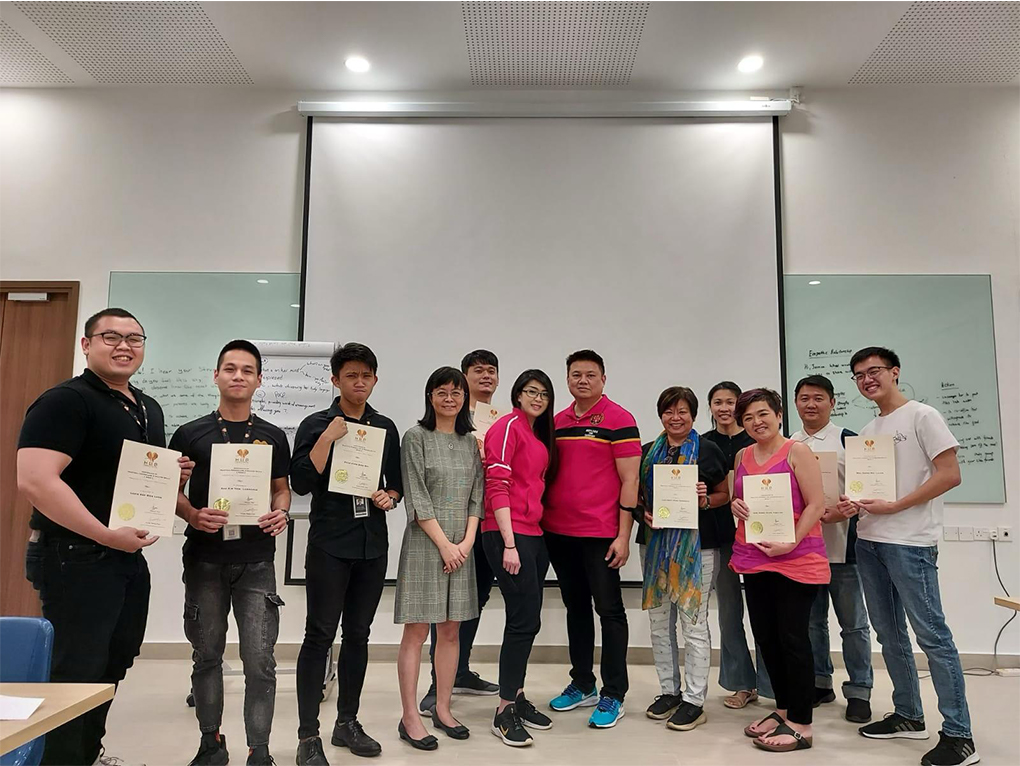
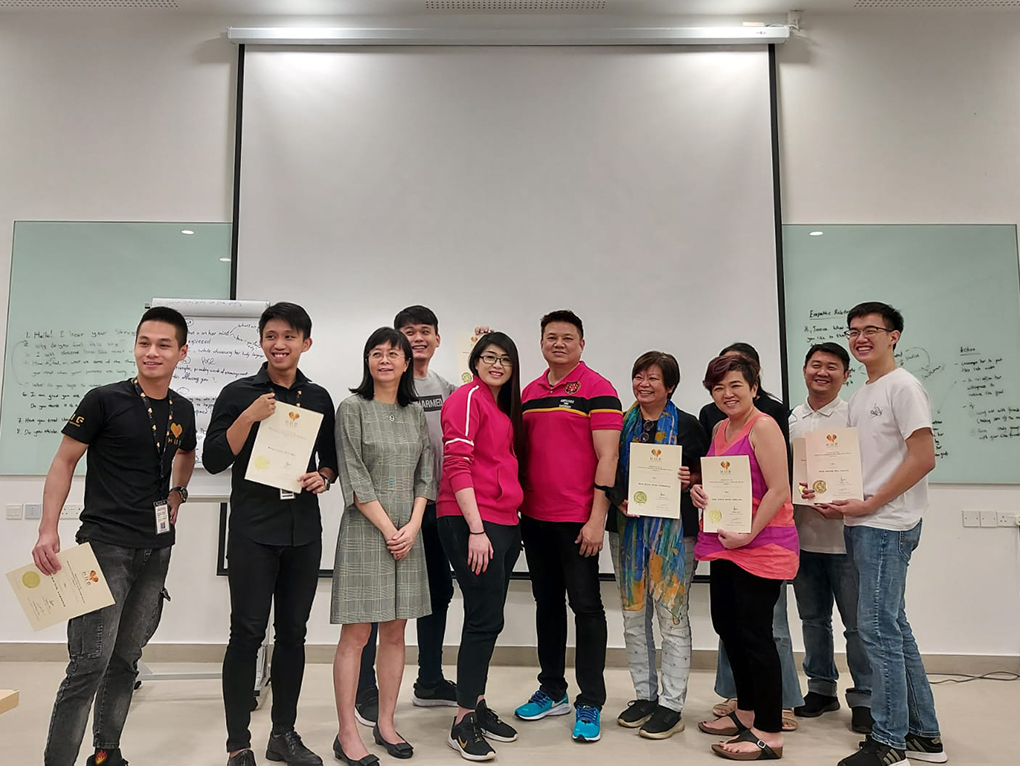
Counsel course -content

diff --git a/events/HUGCounsellingCourse-2020.html b/events/HUGCounsellingCourse-2020.html
@@ -102,6 +102,9 @@
             <img src="../assets/img/portfolio/counselCourse/counselCourse_1.jpg" class="img-fluid" alt="">
             <img src="../assets/img/portfolio/counselCourse/counselCourse_2.jpg" class="img-fluid" alt="">
             <img src="../assets/img/portfolio/counselCourse/counselCourse_3.jpg" class="img-fluid" alt="">
+            <img src="../assets/img/portfolio/counselCourse/counselCourse_4.jpg" class="img-fluid" alt="">
+            <img src="../assets/img/portfolio/counselCourse/counselCourse_5.jpg" class="img-fluid" alt="">
+
           </div>
 
           <div class="portfolio-info">
@@ -117,7 +120,7 @@
         <div class="portfolio-description">
           <h2>HUG's Counselling Course 2020</h2>
           <p>
-            Autem ipsum nam porro corporis rerum. Quis eos dolorem eos itaque inventore commodi labore quia quia. Exercitationem repudiandae officiis neque suscipit non officia eaque itaque enim. Voluptatem officia accusantium nesciunt est omnis tempora consectetur dignissimos. Sequi nulla at esse enim cum deserunt eius.
+            Our very own in-house counselling course dedicated to our staff and committed volunteers, with our Board Member Ms. Swee Fen, a professional counsellor, as the trainer.
           </p>
         </div>
       </div>
